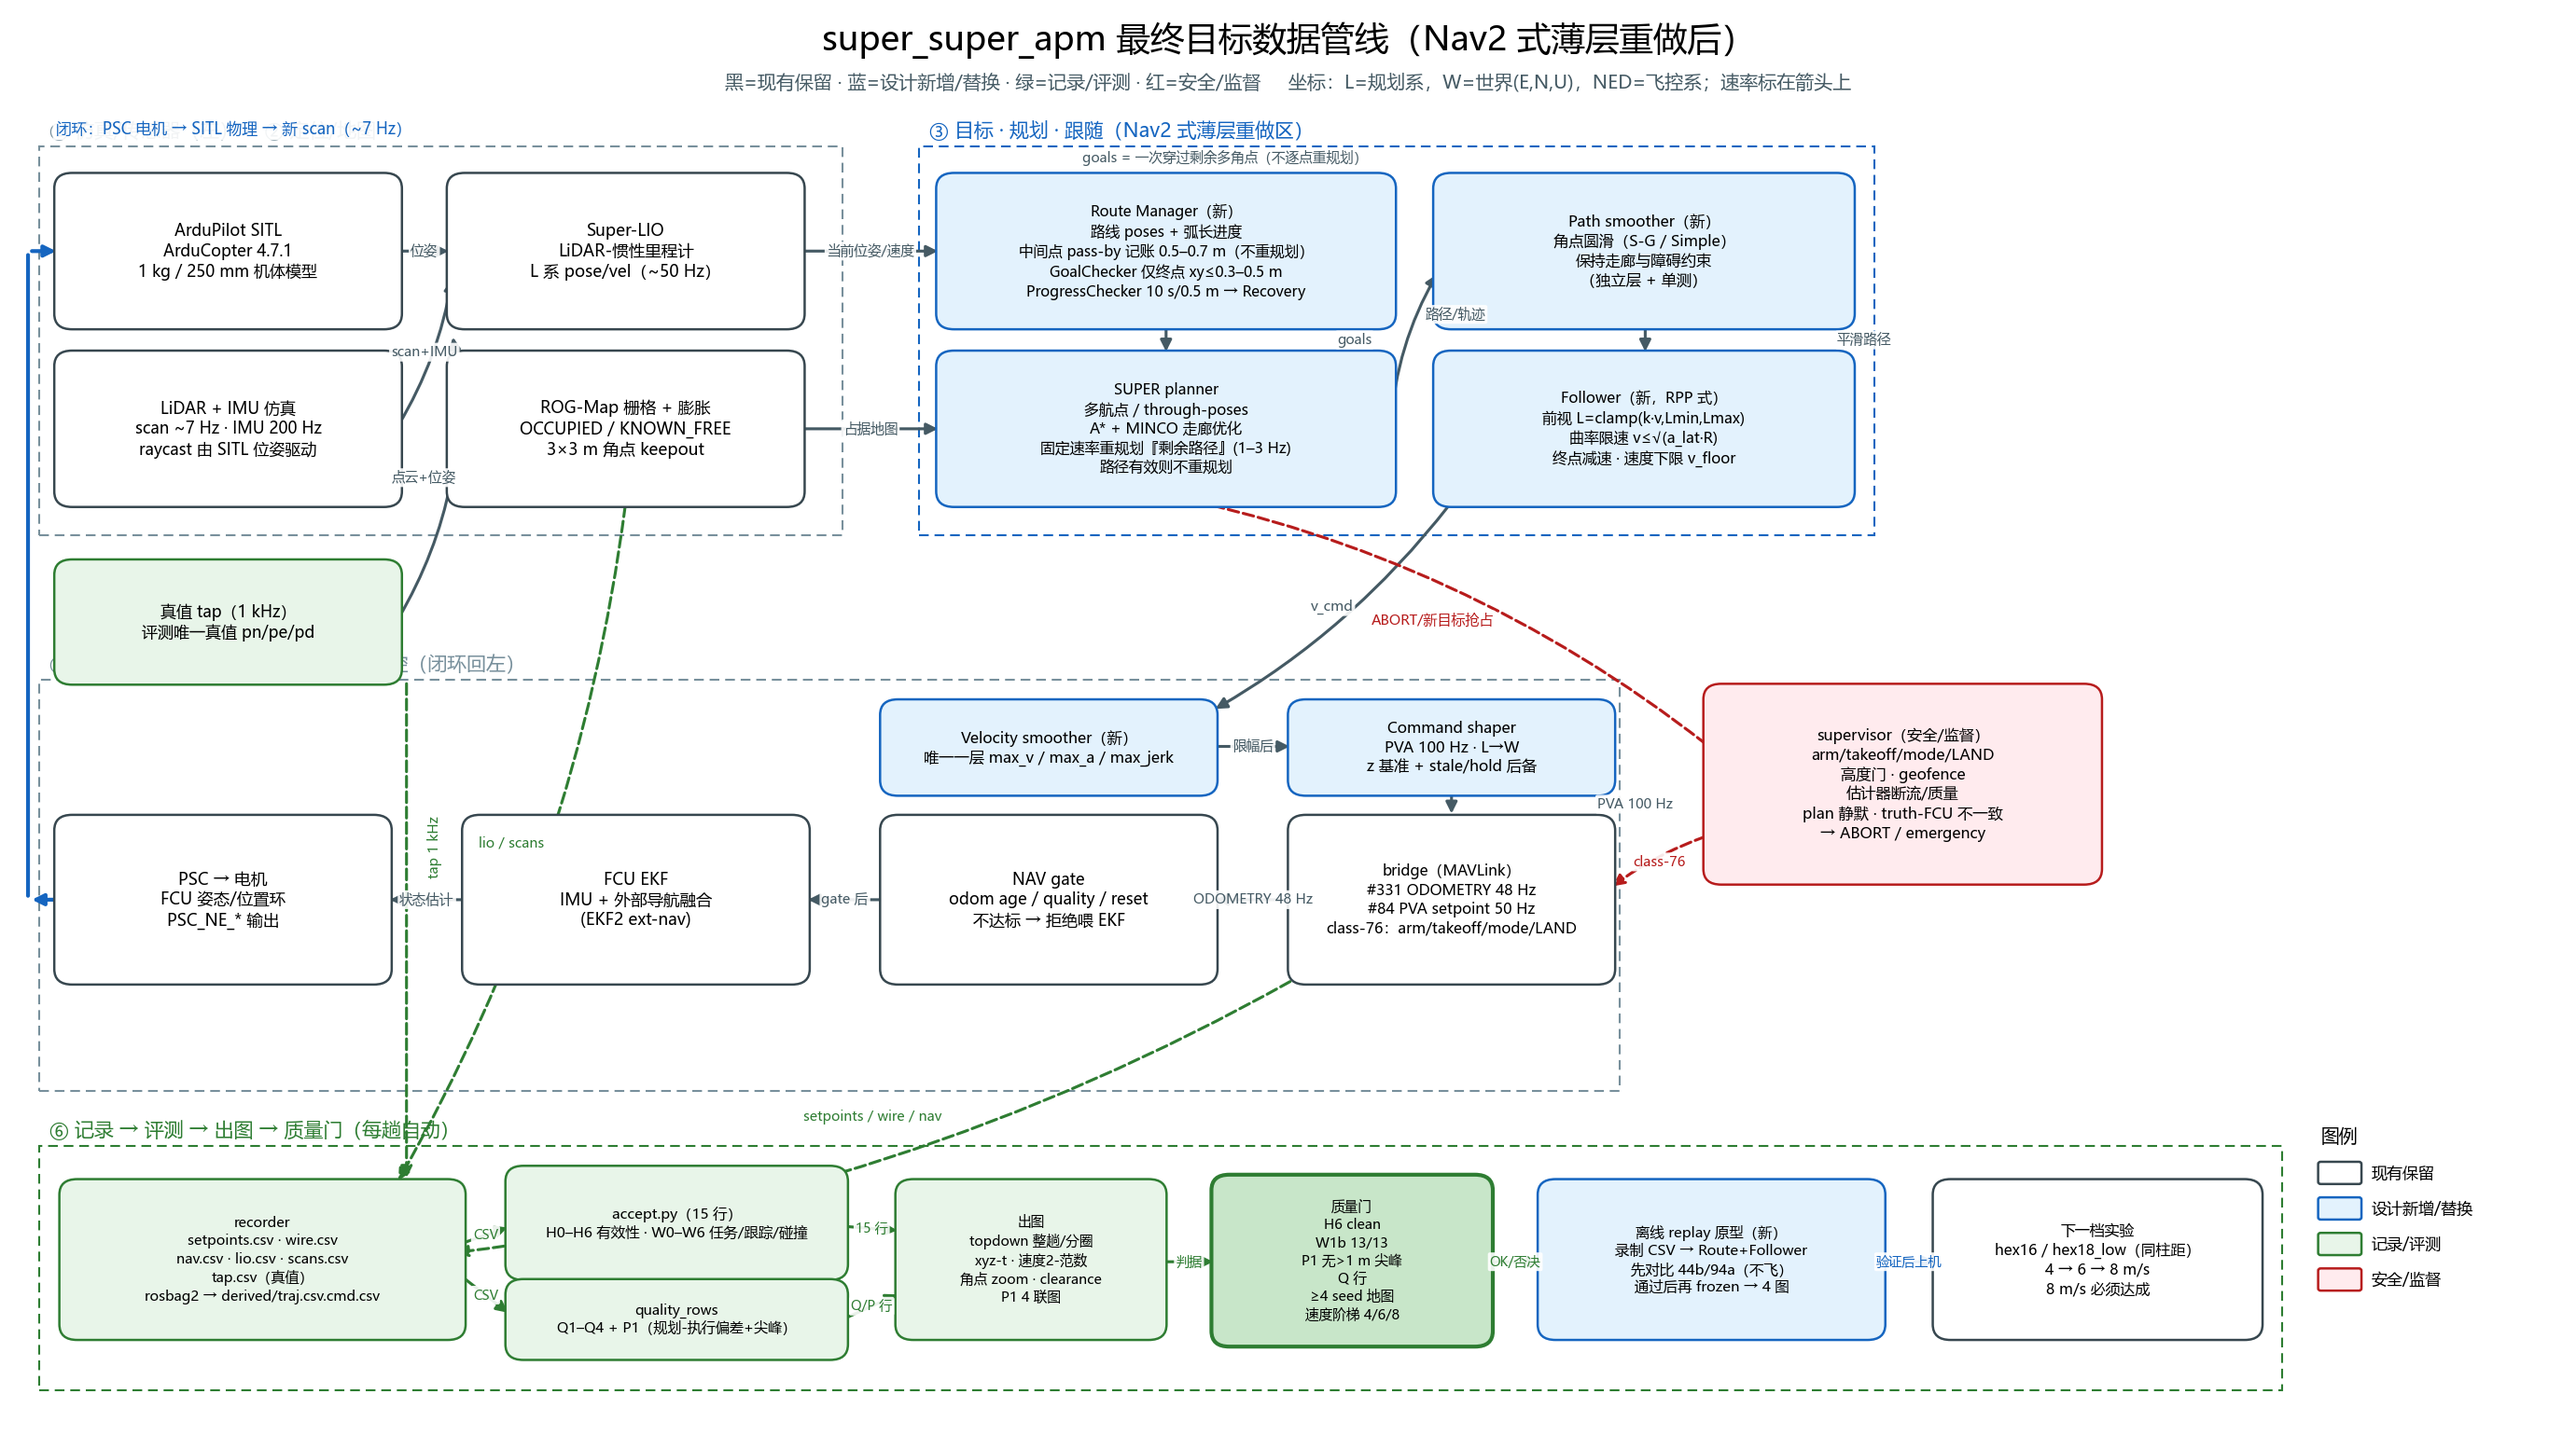
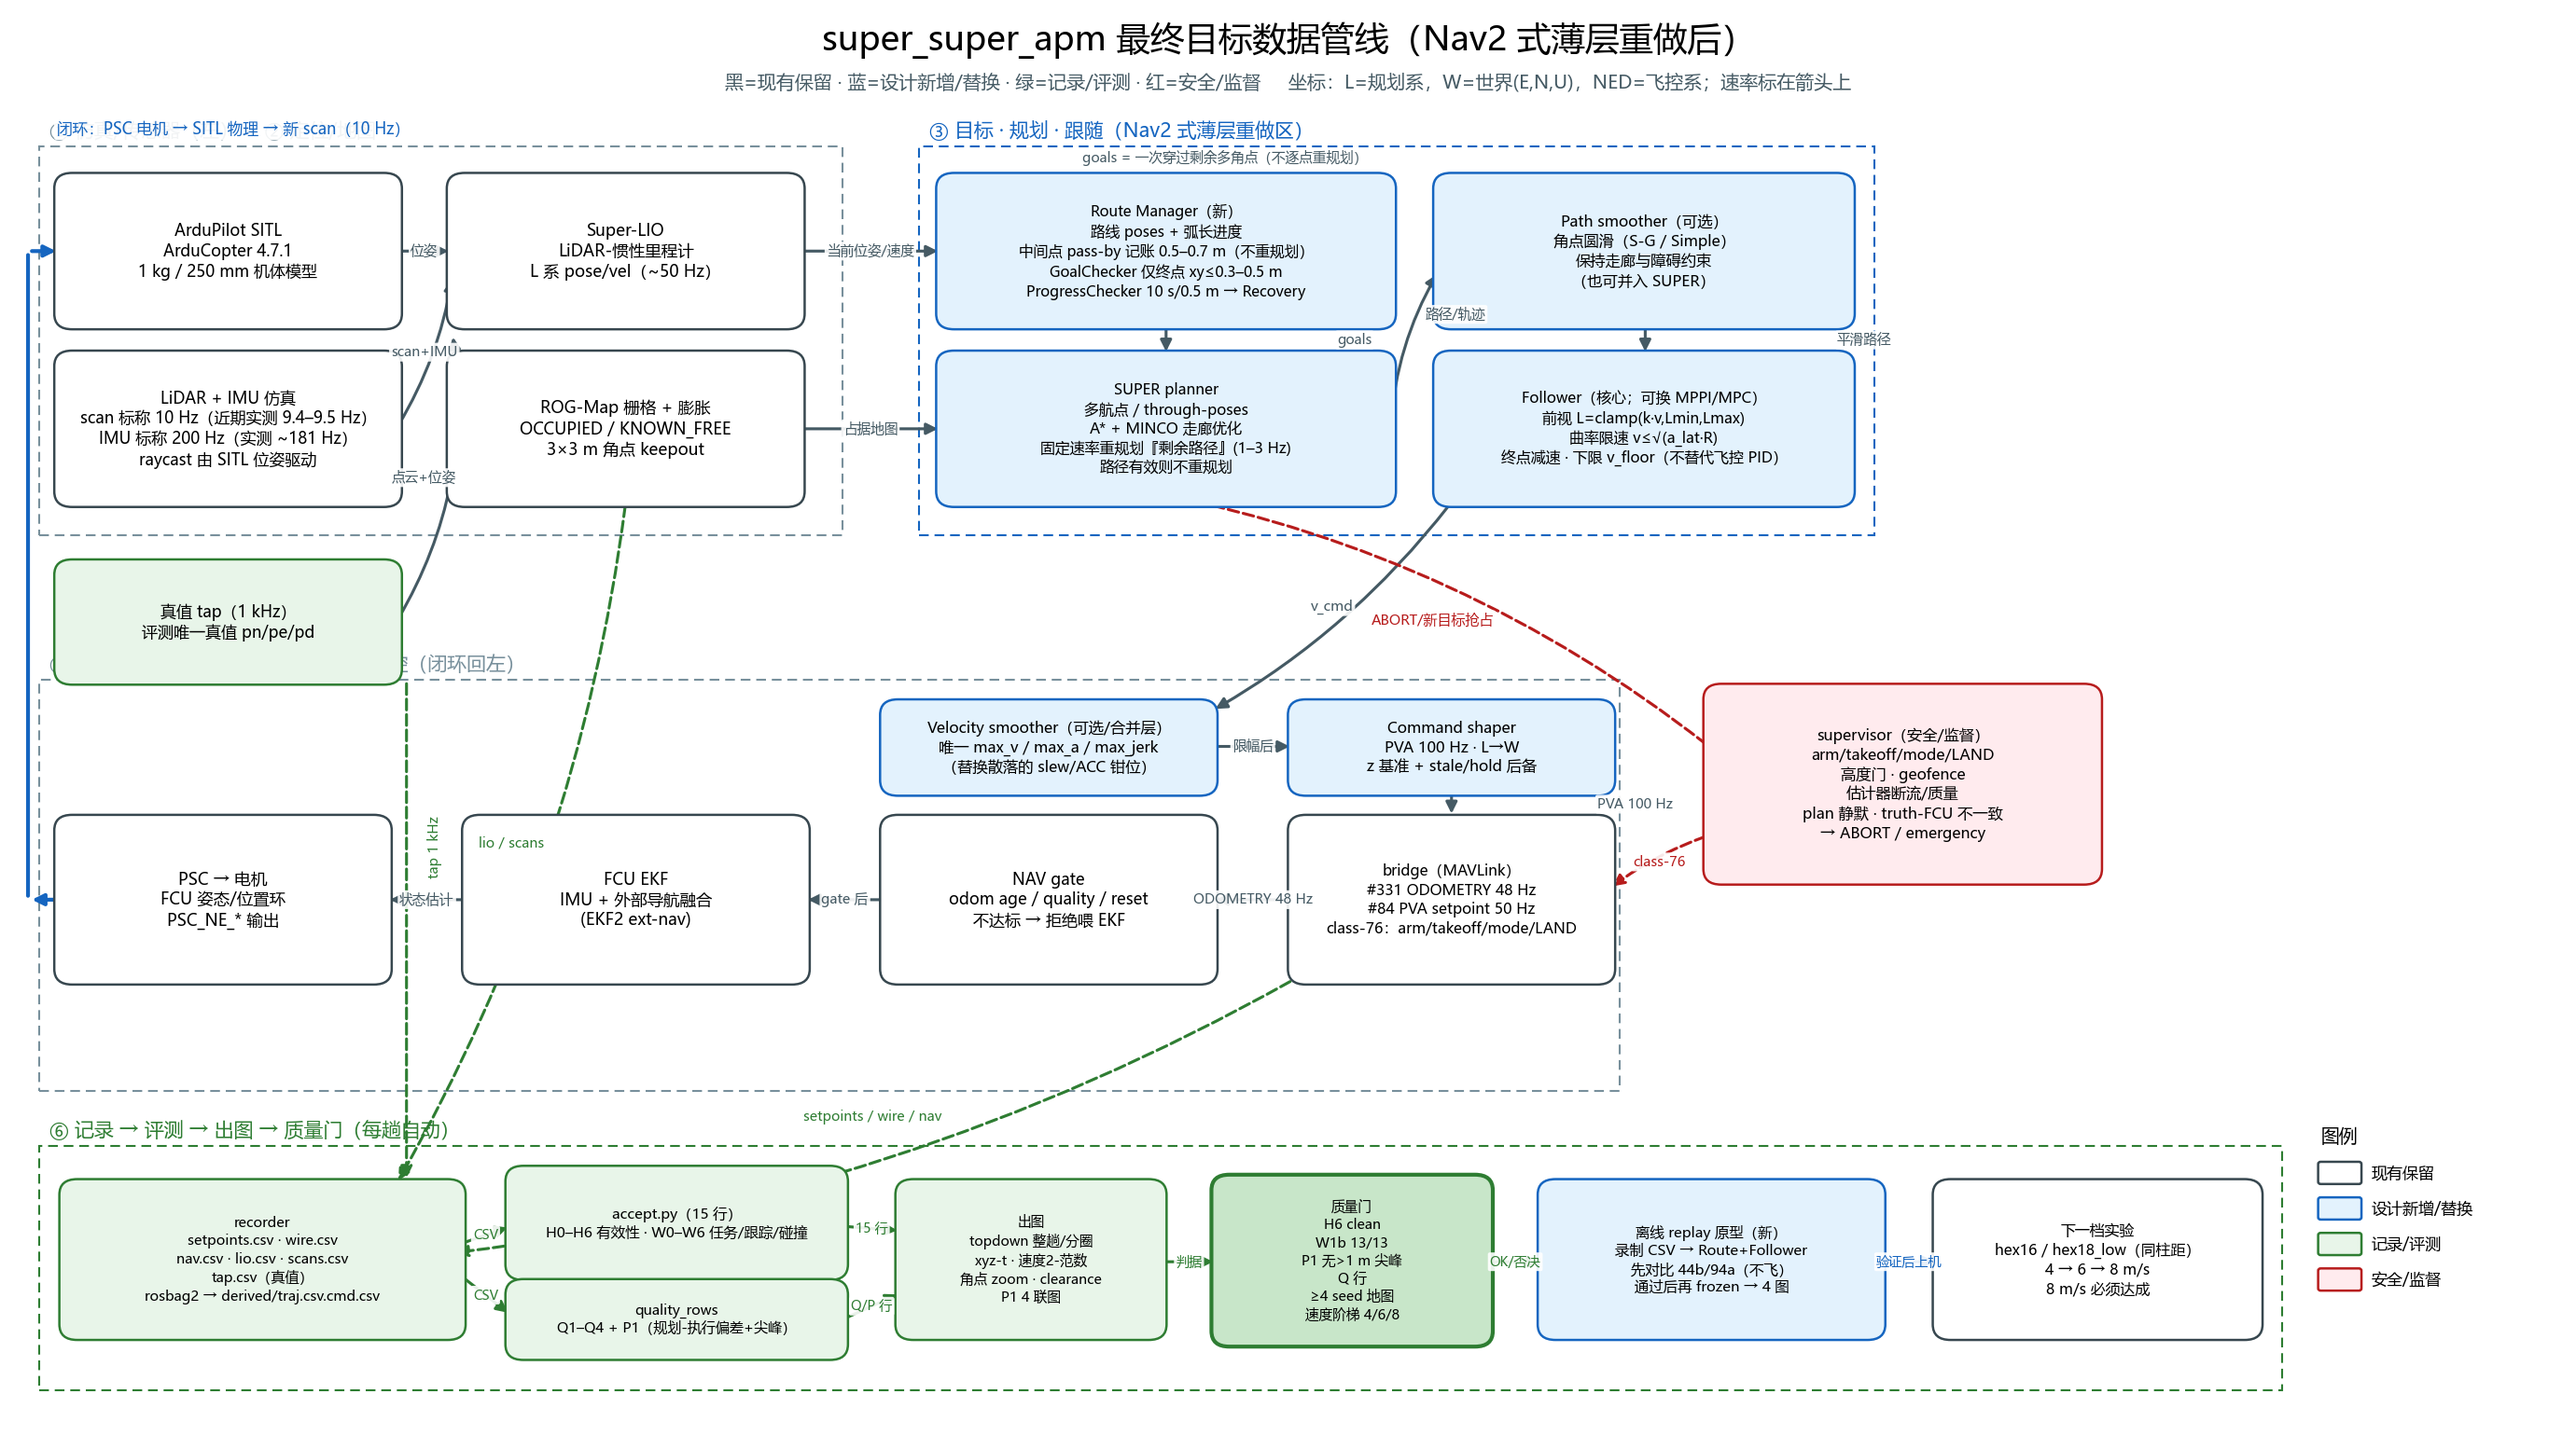
修正管线图与PIPELINE：LiDAR标称10Hz（近期实测9.4-9.5Hz，旧7Hz是历史抢占值）；Path/Velocity smoother标注为可选，Follower标注为核心且可替换MPPI/MPC（不替代飞控PID）

diff --git a/scripts/plot_pipeline.py b/scripts/plot_pipeline.py
@@ -81,7 +81,7 @@ def main() -> int:
     box(ax, 1.8, 50.0, 13.2, 6.6,
         "ArduPilot SITL\nArduCopter 4.7.1\n1 kg / 250 mm 机体模型", fs=8.2)
     box(ax, 1.8, 42.0, 13.2, 6.6,
-        "LiDAR + IMU 仿真\nscan ~7 Hz · IMU 200 Hz\nraycast 由 SITL 位姿驱动", fs=8.2)
+        "LiDAR + IMU 仿真\nscan 标称 10 Hz（近期实测 9.4–9.5 Hz）\nIMU 标称 200 Hz（实测 ~181 Hz）\nraycast 由 SITL 位姿驱动", fs=8.2)
     box(ax, 17.2, 50.0, 13.6, 6.6, "Super-LIO\nLiDAR-惯性里程计\nL 系 pose/vel（~50 Hz）", fs=8.4)
     box(ax, 17.2, 42.0, 13.6, 6.6,
         "ROG-Map 栅格 + 膨胀\nOCCUPIED / KNOWN_FREE\n3×3 m 角点 keepout", fs=8.4)
@@ -94,9 +94,9 @@ def main() -> int:
     box(ax, 36.4, 42.0, 17.6, 6.6,
         "SUPER planner\n多航点 / through-poses\nA* + MINCO 走廊优化\n"
         "固定速率重规划『剩余路径』(1–3 Hz)\n路径有效则不重规划", fc=NEW, ec=NEW_E, fs=7.6)
-    box(ax, 55.9, 50.0, 16.1, 6.6, "Path smoother（新）\n角点圆滑（S-G / Simple）\n保持走廊与障碍约束\n（独立层 + 单测）", fc=NEW, ec=NEW_E, fs=7.8)
-    box(ax, 55.9, 42.0, 16.1, 6.6, "Follower（新，RPP 式）\n前视 L=clamp(k·v,Lmin,Lmax)\n曲率限速 v≤√(a_lat·R)\n"
-                                     "终点减速 · 速度下限 v_floor", fc=NEW, ec=NEW_E, fs=7.6)
+    box(ax, 55.9, 50.0, 16.1, 6.6, "Path smoother（可选）\n角点圆滑（S-G / Simple）\n保持走廊与障碍约束\n（也可并入 SUPER）", fc=NEW, ec=NEW_E, fs=7.8)
+    box(ax, 55.9, 42.0, 16.1, 6.6, "Follower（核心；可换 MPPI/MPC）\n前视 L=clamp(k·v,Lmin,Lmax)\n曲率限速 v≤√(a_lat·R)\n"
+                                     "终点减速 · 下限 v_floor（不替代飞控 PID）", fc=NEW, ec=NEW_E, fs=7.6)
 
     # ================= 第二行：指令 → 桥/飞控（右→左） =================
     frame(ax, 1, 15.5, 62, 18.5, "④ 指令整形（右→左）   +   ⑤ 桥 + 飞控（闭环回左）")
@@ -106,7 +106,7 @@ def main() -> int:
     box(ax, 50.2, 20.5, 12.4, 7.2, "bridge（MAVLink）\n#331 ODOMETRY 48 Hz\n#84 PVA setpoint 50 Hz\n"
                                      "class-76：arm/takeoff/mode/LAND", fs=7.6)
     box(ax, 50.2, 29.0, 12.4, 3.9, "Command shaper\nPVA 100 Hz · L→W\nz 基准 + stale/hold 后备", fc=NEW, ec=NEW_E, fs=7.8)
-    box(ax, 34.2, 29.0, 12.8, 3.9, "Velocity smoother（新）\n唯一一层 max_v / max_a / max_jerk", fc=NEW, ec=NEW_E, fs=7.8)
+    box(ax, 34.2, 29.0, 12.8, 3.9, "Velocity smoother（可选/合并层）\n唯一 max_v / max_a / max_jerk\n（替换散落的 slew/ACC 钳位）", fc=NEW, ec=NEW_E, fs=7.8)
 
     # supervisor
     box(ax, 66.5, 25.0, 15.2, 8.6,
@@ -151,7 +151,7 @@ def main() -> int:
     ax.add_patch(FancyArrowPatch((0.55, 24.1), (0.55, 53.3), arrowstyle="-", linewidth=2.0,
                                  color=NEW_E, zorder=1))
     arrow(ax, (0.55, 53.3), (1.8, 53.3), "", color=NEW_E, lw=2.0)
-    ax.text(8.6, 58.8, "闭环：PSC 电机 → SITL 物理 → 新 scan（~7 Hz）", fontsize=8.0,
+    ax.text(8.6, 58.8, "闭环：PSC 电机 → SITL 物理 → 新 scan（10 Hz）", fontsize=8.0,
             color=NEW_E, family=FONT, ha="center", va="center",
             bbox=dict(boxstyle="round,pad=0.18", fc="white", ec="none", alpha=0.9))
     # --- supervisor ---

diff --git a/docs/PIPELINE.md b/docs/PIPELINE.md
@@ -178,7 +178,7 @@ WORLD_NAME=forest_hex12_s22.yaml <其余飞行环境> bash scripts/fly_hex2.sh g
 flowchart LR
   subgraph SIM[① 仿真/传感器（仅 SITL）]
     SITL[ArduPilot SITL<br/>ArduCopter 4.7.1 · 1 kg/250 mm]
-    LDS[LiDAR+IMU 仿真<br/>scan ~7 Hz · IMU 200 Hz]
+    LDS[LiDAR+IMU 仿真<br/>scan 标称 10 Hz（实测 9.4–9.5 Hz）<br/>IMU 200 Hz（实测 ~181 Hz）]
     TAP[(真值 tap<br/>1 kHz)]
   end
   subgraph LOC[② 定位/地图]
@@ -188,9 +188,9 @@ flowchart LR
   subgraph PLAN[③ 目标·规划·跟随（新增/替换）]
     RM[Route Manager<br/>路线 poses · pass-by 0.5–0.7 m 记账<br/>GOAL CHECKER 仅终点 · PROGRESS CHECKER]
     SUP[SUPER planner<br/>多航点/through-poses<br/>重规划剩余路径 1–3 Hz]
-    SM[Path smoother<br/>角点圆滑 · 走廊约束]
-    FL[Follower RPP<br/>前视 + 曲率限速 + 终点减速 + v_floor]
-    VS[Velocity smoother<br/>唯一 max_v/max_a/max_jerk]
+    SM[Path smoother（可选）<br/>角点圆滑 · 走廊约束]
+    FL[Follower（核心，可换 MPPI/MPC）<br/>前视 + 曲率限速 + 终点减速 + v_floor<br/>不替代飞控 PID]
+    VS[Velocity smoother（可选/合并层）<br/>唯一 max_v/max_a/max_jerk]
   end
   subgraph FCU[④ 桥+飞控]
     SH[Command shaper<br/>PVA 100 Hz · L→W · z 基准 · stale/hold]
@@ -243,3 +243,9 @@ flowchart LR
 判据口径（与 `docs/ACCEPTANCE.md`、`FLIGHT-ANALYSIS` §74/§76 一致）：
 H0–H6 飞行有效性 → 15 行（W1/W1b 到点、W2 速度、W6 跟踪；W4/Q2 本阶段记录）→ Q1/Q3/Q4 + **P1 规划-执行偏差与尖峰** →
 ≥4 张同规则不同 seed 图 → 速度阶梯（4/6/8 m/s，大世界同柱距）。
+
+> **注（2026-11-27，owner 提问后修正）**：LiDAR 仿真的**标称扫描率是 10 Hz**（`sim/src/lidar_imu.py --scan-hz 10.0`，
+> 10000 点/帧）；近期四次飞行（94a/98s22/98s23/98s24）实测 cloud **9.40–9.48 Hz**、IMU 实测 ~181 Hz，
+> raycast 6–8 ms/帧。旧图里写的 "~7 Hz" 是更早、主机被抢占时的测量值（历史记录保留，但**不是本配置的规格**）；
+> 换到 1546 柱的大世界（hex16/hex18）时 raycast 负载会显著上升（phase88a 曾出现 p50 22 ms、max 2.95 s、H6 FAIL），
+> 所以大世界首先要解决的是 LiDAR/主机负载，而不是改 10 Hz 这个标称值。
